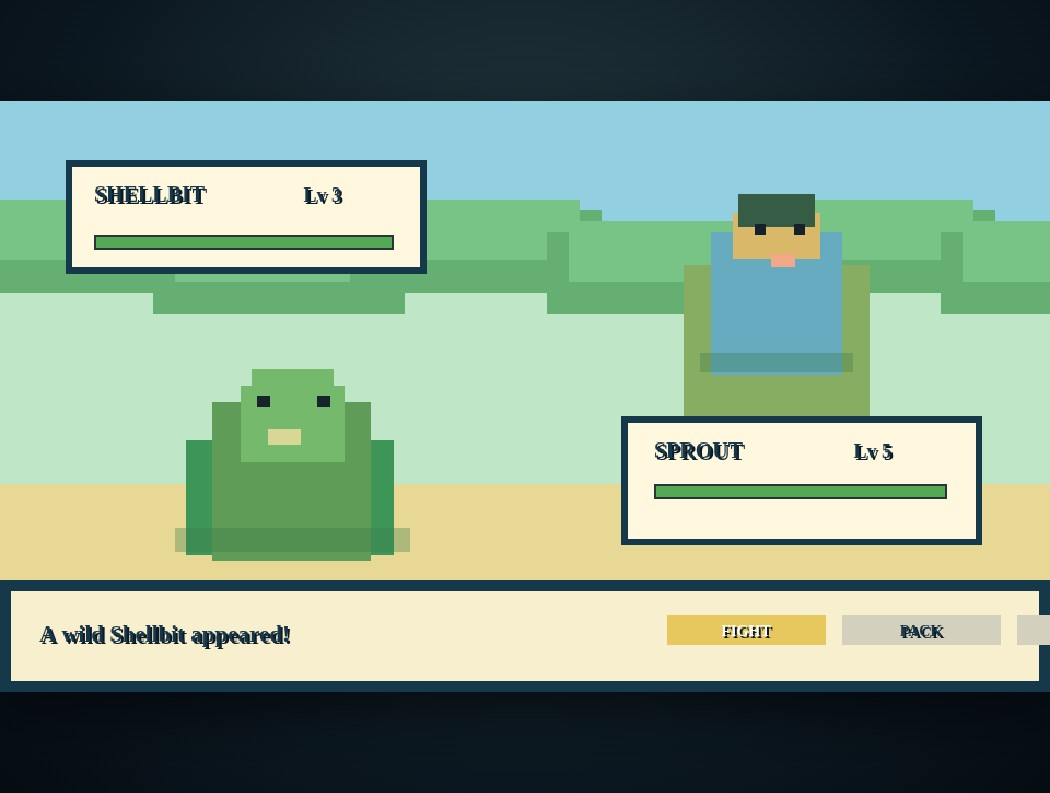
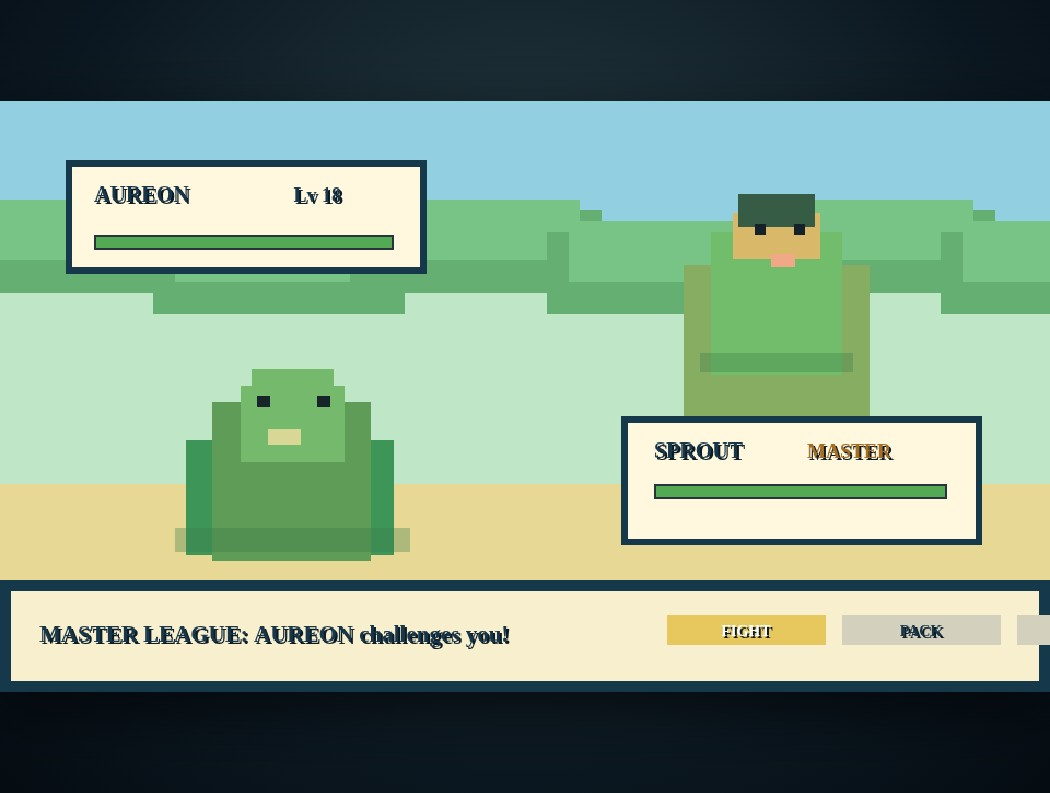
Publish static build for issue #1
Run: 44728515392
Attempt: 1
Generation: 4
Source: 179a1fc3569f16b7c19bcf1c9001d088b24fdc1a

diff --git a/index.html b/index.html
@@ -13,6 +13,7 @@
 const c=document.getElementById('game'),x=c.getContext('2d');x.imageSmoothingEnabled=false;
 const W=960,H=540,T=32;
 let scene='world',keys={},tick=0,toast='',toastT=0,battle=null,battleStep=0,battleMsg='',partyHP=38,partyMax=38,coins=120,healing=false;
+let leaguePoints=0,leagueWins=0,leagueRank='BRONZE';
 const player={x:8*32+16,y:10*32+16,dir:0,moving:false};
 const map=[
 '####################','####################','##......##..........','##.###..##.#######.','##.###..##.#######.','##......##.....###.','##.######.###.....','##.######.###.###.','##........###.###.','####.######...###.','####.######.T.###.','####......C.......','####.######.T.###.','##.......###.###.','##.#####.###.###.','##.#####.###.###.','##.#####....######.','##.########.######.','##................','####################'];
@@ -40,13 +41,14 @@ function drawWorld(){
   rect(player.x-12,player.y-14,24,8,'#d4b84c');rect(player.x-8,player.y+8,16,10,'#315a99');rect(player.x-10,player.y+16,7,5,'#563824');rect(player.x+3,player.y+16,7,5,'#563824');
   if(player.dir===0)rect(player.x-6,player.y-8,4,3,'#203040');rect(player.x+3,player.y-8,4,3,'#203040');
   // HUD
-  rect(16,16,220,58,'#102838');rect(22,22,208,46,'#f5eacb');text('VERDANT TOWN',34,52,20,'#17334a');rect(770,16,174,58,'#102838');rect(776,22,162,46,'#f5eacb');text('● '+coins+'  ✦ 1',814,52,18,'#17334a');
+  rect(16,16,220,58,'#102838');rect(22,22,208,46,'#f5eacb');text('VERDANT TOWN',34,52,20,'#17334a');rect(770,16,174,58,'#102838');rect(776,22,162,46,'#f5eacb');text('● '+coins+'  '+leagueRank,788,52,15,'#17334a');text(leaguePoints+' RP',788,66,11,'#17334a');
   if(toastT>0){rect(250,444,460,58,'#102838ee');rect(258,452,444,42,'#f5eacb');text(toast,480,479,17,'#17334a','center')}
 }
 function move(){let dx=0,dy=0;if(keys.ArrowLeft)dx=-1;if(keys.ArrowRight)dx=1;if(keys.ArrowUp)dy=-1;if(keys.ArrowDown)dy=1;if(dx&&dy)dy=0;if(!dx&&!dy)return; if(dx<0)player.dir=1;if(dx>0)player.dir=3;if(dy<0)player.dir=0;if(dy>0)player.dir=2;let nx=player.x+dx*2,ny=player.y+dy*2;let tr=Math.floor(ny/T),tc=Math.floor(nx/T);if(tr<0||tr>=20||tc<0||tc>=20||solids.has(map[tr][tc])||map[tr][tc]==='~')return;player.x=nx;player.y=ny;player.moving=true;if(Math.random()<0.012&&((tc>=11&&tc<=18)||(tr>=12&&tr<=17))){startBattle()} }
-function interact(){let px=Math.floor(player.x/T),py=Math.floor(player.y/T),dx=[0,0,-1,1][player.dir],dy=[-1,1,0,0][player.dir],tx=px+dx,ty=py+dy;if(tx===7&&ty===8){showToast('The ranger: Catch creatures with Cubes!') }else if(tx>=12&&tx<=18&&ty>=2&&ty<=6){showToast('Fresh pond water sparkles.')}else if(tx===10&&ty===11){showToast('TRAIL: Venture north for wild creatures.')}else{showToast('Nothing to interact with here.')}}
+function interact(){let px=Math.floor(player.x/T),py=Math.floor(player.y/T),dx=[0,0,-1,1][player.dir],dy=[-1,1,0,0][player.dir],tx=px+dx,ty=py+dy;if(tx===7&&ty===8){showToast('MASTER LEAGUE!');setTimeout(()=>startBattle(true),500)}else if(tx>=12&&tx<=18&&ty>=2&&ty<=6){showToast('Fresh pond water sparkles.')}else if(tx===10&&ty===11){showToast('TRAIL: League battles lie in the wild.')}else if(tx===4&&ty>=8&&ty<=10){showToast('Master League arena — enter and battle!');setTimeout(()=>startBattle(true),500)}else{showToast('Nothing to interact with here.')}}
 function showToast(s){toast=s;toastT=180}
-function startBattle(){wild={name:creatures[Math.floor(Math.random()*creatures.length)],level:3+Math.floor(Math.random()*3)};wildMax=20+wild.level*3;wildHP=wildMax;battleStep=0;battleMsg=`A wild ${wild.name} appeared!`;scene='battle'}
+let leagueBattle=false;
+function startBattle(isLeague=false){leagueBattle=isLeague;wild={name:isLeague?'AUREON':creatures[Math.floor(Math.random()*creatures.length)],level:isLeague?18+Math.floor(Math.random()*4):3+Math.floor(Math.random()*3)};wildMax=isLeague?85+wild.level*2:20+wild.level*3;wildHP=wildMax;battleStep=0;battleMsg=isLeague?`MASTER LEAGUE: ${wild.name} challenges you!`:`A wild ${wild.name} appeared!`;scene='battle'}
 function drawBattle(){
   rect(0,0,W,H,'#bfe6c6');rect(0,0,W,170,'#91cfe1');for(let i=0;i<6;i++){rect(i*180-40,100+(i%2)*20,230,75,'#65af72');rect(i*180-20,90+(i%2)*20,190,55,'#78c486')}rect(0,350,W,190,'#e7d995');
   // enemy creature
@@ -54,7 +56,7 @@ function drawBattle(){
   rect(60,54,330,104,'#16384b');rect(66,60,318,92,'#fff8df');text(wild.name.toUpperCase(),86,92,20,'#18364a');text(`Lv ${wild.level}`,312,92,18,'#18364a','right');drawBar(86,122,wildHP,wildMax,274);
   // player creature
   rect(170,310,190,105,'#3d9658');rect(194,275,145,145,'#5f9c57');rect(220,260,95,70,'#75b96c');rect(230,245,75,55,'#75b96c');rect(235,270,12,10,'#17252a');rect(290,270,12,10,'#17252a');rect(245,300,30,14,'#d8d795');rect(160,390,215,22,'#39794955');
-  rect(568,288,330,118,'#16384b');rect(574,294,318,106,'#fff8df');text('SPROUT',598,326,20,'#18364a');text(`Lv 5`,815,326,18,'#18364a','right');drawBar(598,350,partyHP,partyMax,268);
+  rect(568,288,330,118,'#16384b');rect(574,294,318,106,'#fff8df');text('SPROUT',598,326,20,'#18364a');text(leagueBattle?'MASTER':'Lv 5',815,326,18,leagueBattle?'#a66d24':'#18364a','right');drawBar(598,350,partyHP,partyMax,268);
   rect(0,438,W,102,'#16384b');rect(10,448,940,82,'#f8efcf');text(battleMsg,36,494,21,'#18364a');
   if(battleStep===0){drawMenu(['FIGHT','PACK','CUBE','RUN'],6)}
 }
@@ -63,8 +65,8 @@ function drawMenu(items,cols){let start=610;for(let i=0;i<items.length;i++){let 
 function battleAction(){if(battleStep===1)return;if(battleStep===0){battleStep=1;battleMsg='Choose a move!';setTimeout(()=>{battleStep=0;battleMsg='1) Leaf Lash  2) Quick Bite  3) Guard';battleMoveMenu=true},300)} }
 let battleMoveMenu=false;
 function handleBattleKey(k){if(k==='Escape'){if(battleMoveMenu){battleMoveMenu=false;battleStep=0;battleMsg=`What will SPROUT do?`};return}if(k==='Enter'){if(!battleMoveMenu){if(battleStep===0){battleMoveMenu=true;battleMsg='Leaf Lash   |   Quick Bite   |   Guard'}else if(battleStep===1){battleMsg='1) Leaf Lash  2) Quick Bite  3) Guard'};return}attack(0)}if(k==='ArrowRight'||k==='ArrowLeft'||k==='ArrowDown'||k==='ArrowUp'){battleStep=(battleStep+1)%4}}
-function attack(){let damage=7+Math.floor(Math.random()*6);wildHP-=damage;if(wildHP<=0){battleMoveMenu=false;coins+=25;battleMsg=`${wild.name} fainted! You won 25 coins.`;setTimeout(()=>{scene='world';partyHP=Math.max(1,partyHP)},900);return}battleMsg=`Sprout used Leaf Lash! ${damage} damage!`;battleMoveMenu=false;battleStep=0;setTimeout(()=>{if(scene==='battle')enemyTurn()},700)}
-function enemyTurn(){let damage=4+Math.floor(Math.random()*5);partyHP-=damage;if(partyHP<=0){battleMsg='Sprout retreated. It is back in town!';setTimeout(()=>{partyHP=partyMax;player.x=8*32+16;player.y=10*32+16;scene='world'},900)}else battleMsg=`${wild.name} struck back for ${damage}!`}
+function attack(){let damage=(leagueBattle?13:7)+Math.floor(Math.random()*(leagueBattle?9:6));wildHP-=damage;if(wildHP<=0){battleMoveMenu=false;if(leagueBattle){leagueWins++;leaguePoints+=35;coins+=100;if(leaguePoints>=100)leagueRank='MASTER';else if(leaguePoints>=60)leagueRank='GOLD';else leagueRank='SILVER';battleMsg=`LEAGUE CHAMPION: ${wild.name} defeated! +35 rank points` }else{coins+=25;battleMsg=`${wild.name} fainted! You won 25 coins.`}setTimeout(()=>{scene='world';partyHP=Math.max(1,partyHP)},leagueBattle?1400:900);return}battleMsg=`Sprout used Leaf Lash! ${damage} damage!`;battleMoveMenu=false;battleStep=0;setTimeout(()=>{if(scene==='battle')enemyTurn()},700)}
+function enemyTurn(){let damage=(leagueBattle?10:4)+Math.floor(Math.random()*(leagueBattle?8:5));partyHP-=damage;if(partyHP<=0){battleMsg='Sprout retreated. It is back in town!';setTimeout(()=>{partyHP=partyMax;player.x=8*32+16;player.y=10*32+16;scene='world'},900)}else battleMsg=`${wild.name} struck back for ${damage}!`}
 window.addEventListener('keydown',e=>{if(['ArrowUp','ArrowDown','ArrowLeft','ArrowRight',' ','Enter'].includes(e.key))e.preventDefault();keys[e.key]=true;if(scene==='world'&&(e.key==='Enter'||e.key===' '))interact();if(scene==='battle')handleBattleKey(e.key);});
 window.addEventListener('keyup',e=>keys[e.key]=false);document.querySelectorAll('[data-key]').forEach(b=>{let k=b.dataset.key;let go=e=>{e.preventDefault();keys[k]=true;if(k==='Enter'||k==='Escape'){if(scene==='world'&&k==='Enter')interact();if(scene==='battle')handleBattleKey(k)}};let stop=e=>{e.preventDefault();keys[k]=false};b.addEventListener('pointerdown',go);b.addEventListener('pointerup',stop);b.addEventListener('pointercancel',stop)});
 function loop(){tick++;if(scene==='world'){move();drawWorld();if(toastT>0)toastT--}else drawBattle();requestAnimationFrame(loop)}loop();
